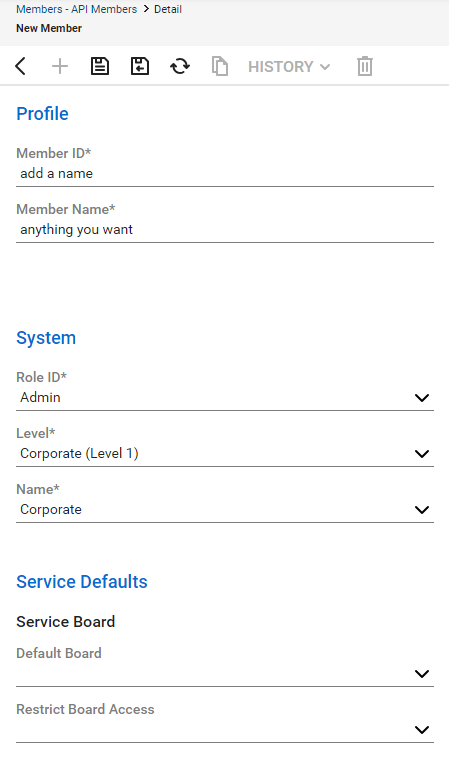
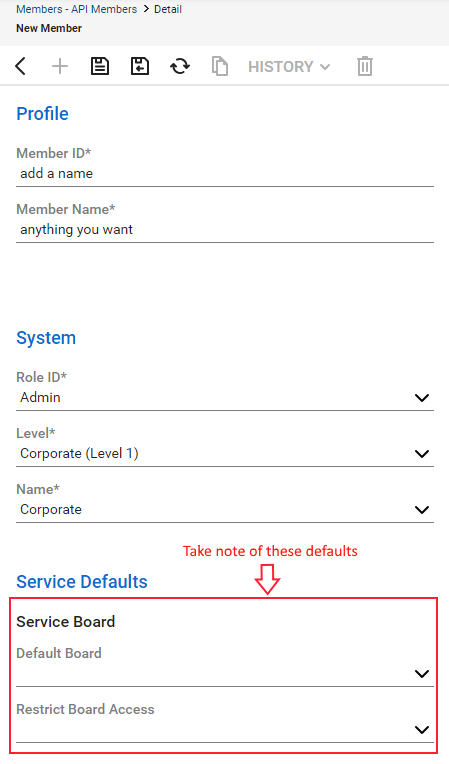
Connectwise update, FreshService Comming soon

diff --git a/content/integration/freshservice.rst b/content/integration/freshservice.rst
@@ -1,31 +1,3 @@
 Freshservice Integration
 ======================
-This guide will show you how to set up FreshDesk to work with your new Helpdesk Buttons. The first step is to sign into your  
-
-To start you will need to set up a contact that uses the email address of “unregistered@helpdeskbuttons.com”  for the purposes of catching any unregistered users.  You can name the account whatever you want. in our system it’s “Mystery Human”.
-
-On the left of your screen, click the admin button. 
-
-.. image:: images/fd-image-1.png
-Scroll down and select Agents 
-
-.. image:: images/fd-image-2.png
-Click ‘New Agent 
-
-.. image:: images/fd-image-4.png
-And then fill out the information needed. This account just needs the ‘Agent’ role for it to work. 
-
-After you have created that account, sign into it and go to the profile.  You can get there by clicking your account picture and then selecting profile.  
-
-In the upper right, you will see ‘Your API Key’ 
-
-.. image:: images/fd-image-5.png
-Please take note of this API Key, you will need it in a little bit. 
-
-The next step is to sign into your Helpdeskbuttons.com account and enter this information under Settings->Backend Information 
-
-.. image:: images/fd-image-3.png
-Enter your Ticket System API endpoint and the Ticket System API Key. Your Ticket System API endpoint is the main URL that you use to log into FreshDesk. In this instance 
-
-.. image:: images/fd-image-6.png
-Click update once you are done. At this point, your Freshdesk instance will be ready to go with your Helpdesk Buttons. 
+Coming soon!

diff --git a/content/integration/connectwise.rst b/content/integration/connectwise.rst
@@ -37,7 +37,11 @@ Select the ‘API Members’ tab.
 Click on the ‘New’ button and set up the new API member
 
 .. image:: images/cw-image-2.png
-Enter a member ID and name which fits your organization. Select the appropriate System options according to how your ConnectWise Manage system is configured. Be sure to click ‘Save’ when everything looks correct.
+Enter a member ID and name which fits your organization. Select the appropriate System options according to how your ConnectWise Manage system is configured. 
+
+**Take note of the Service Defaults as they can effect the way tickets come into the system.**
+
+Be sure to click ‘Save’ when everything looks correct.
 
 Next, browse to the ‘API Keys’ tab.
 
